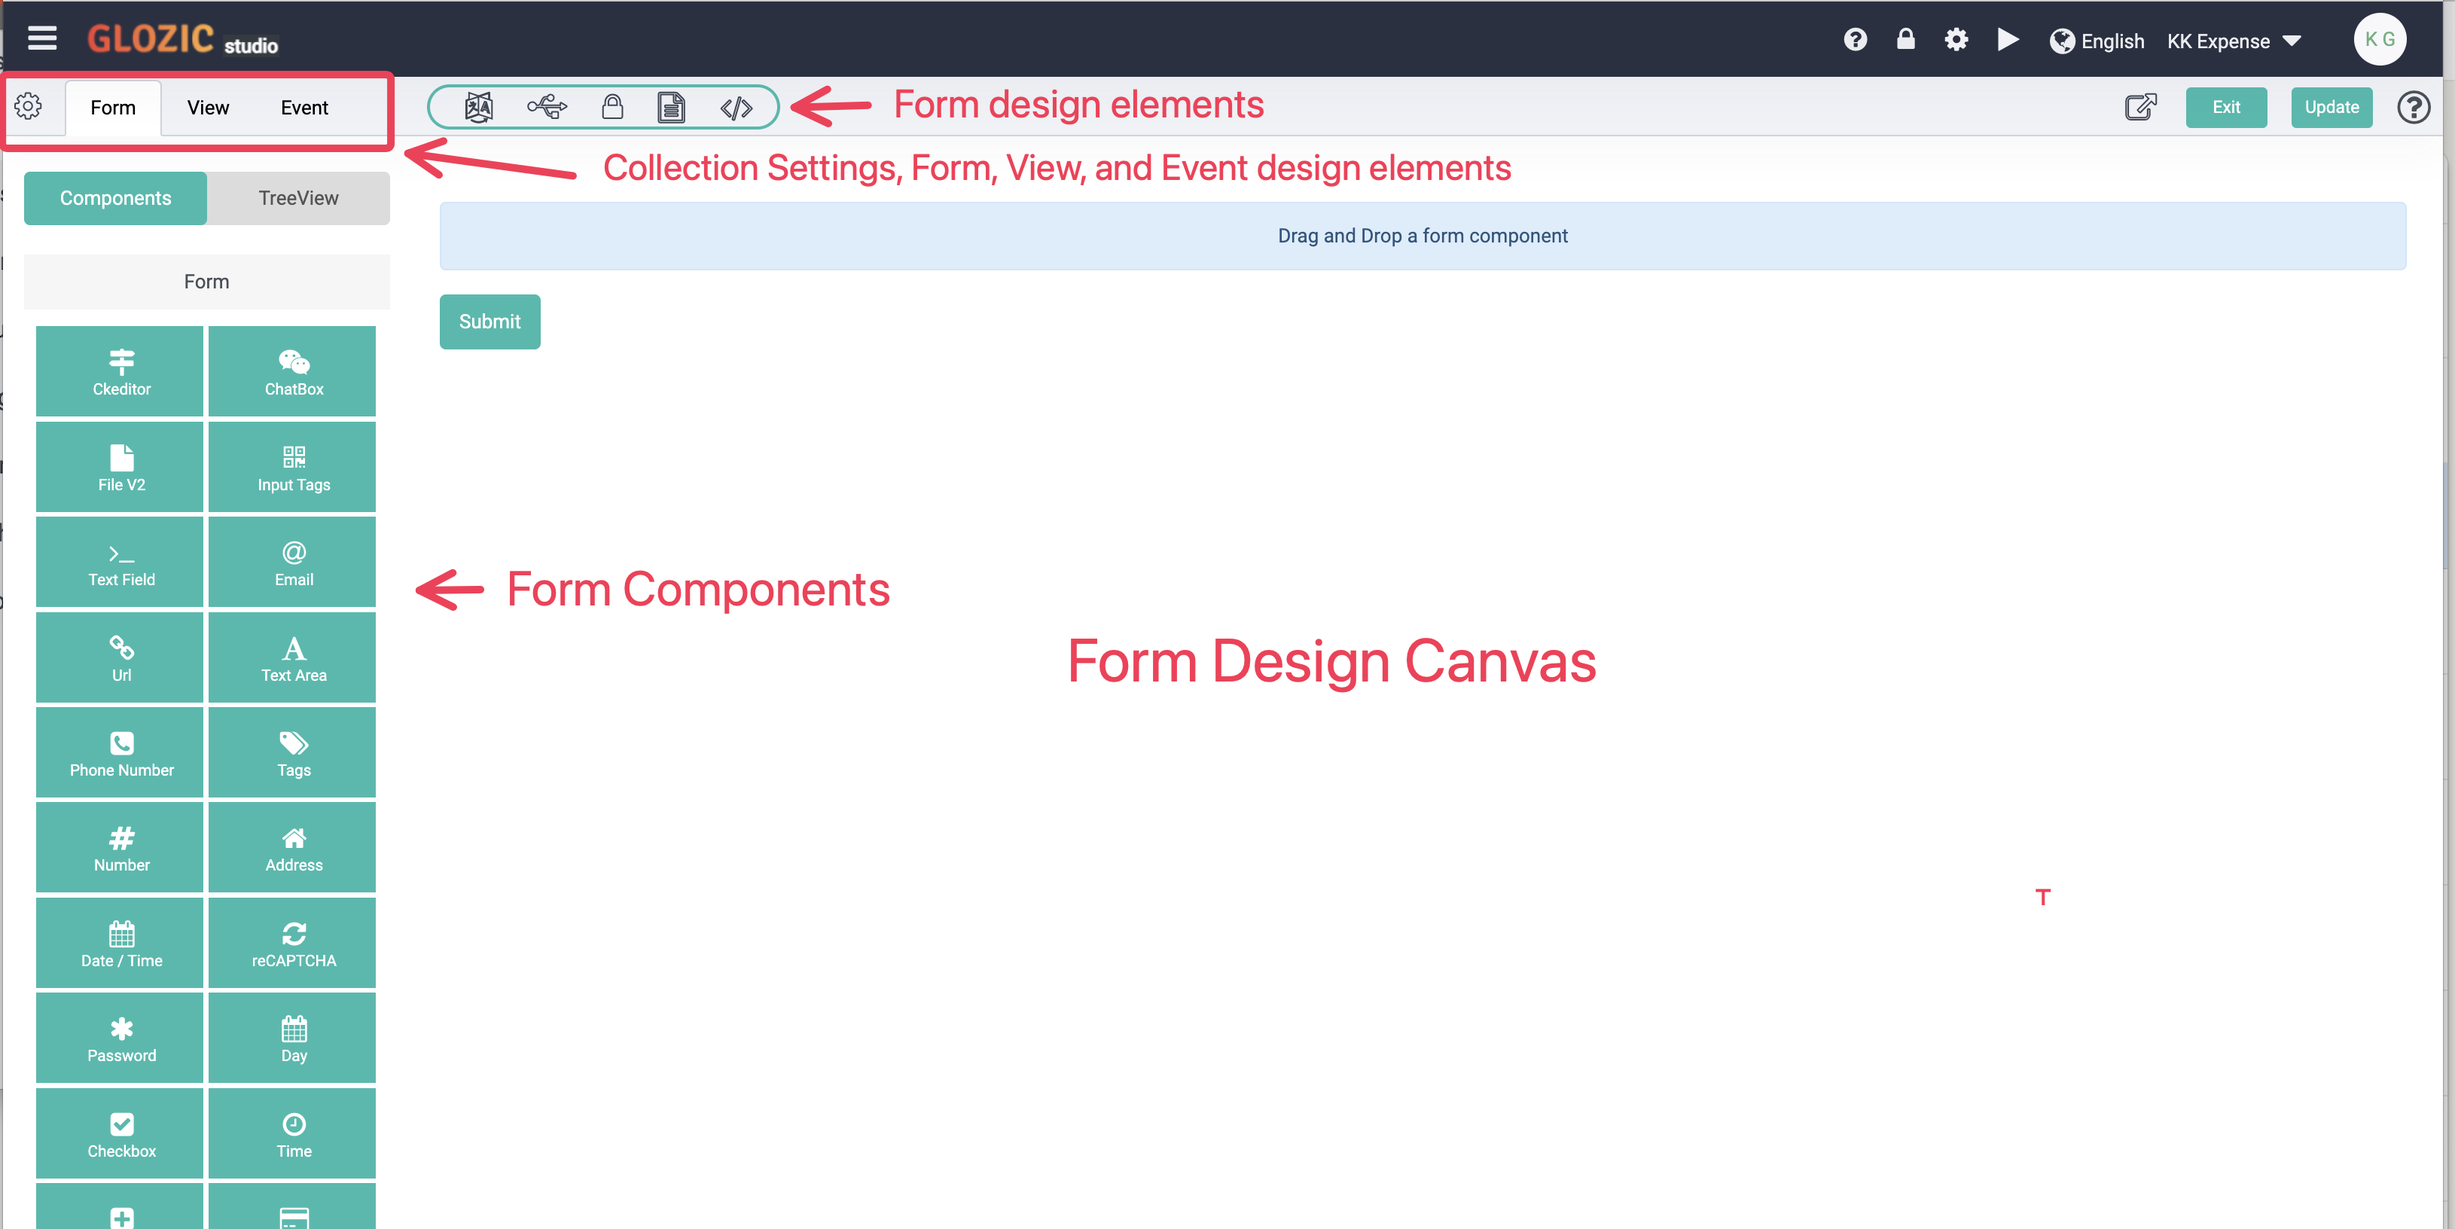
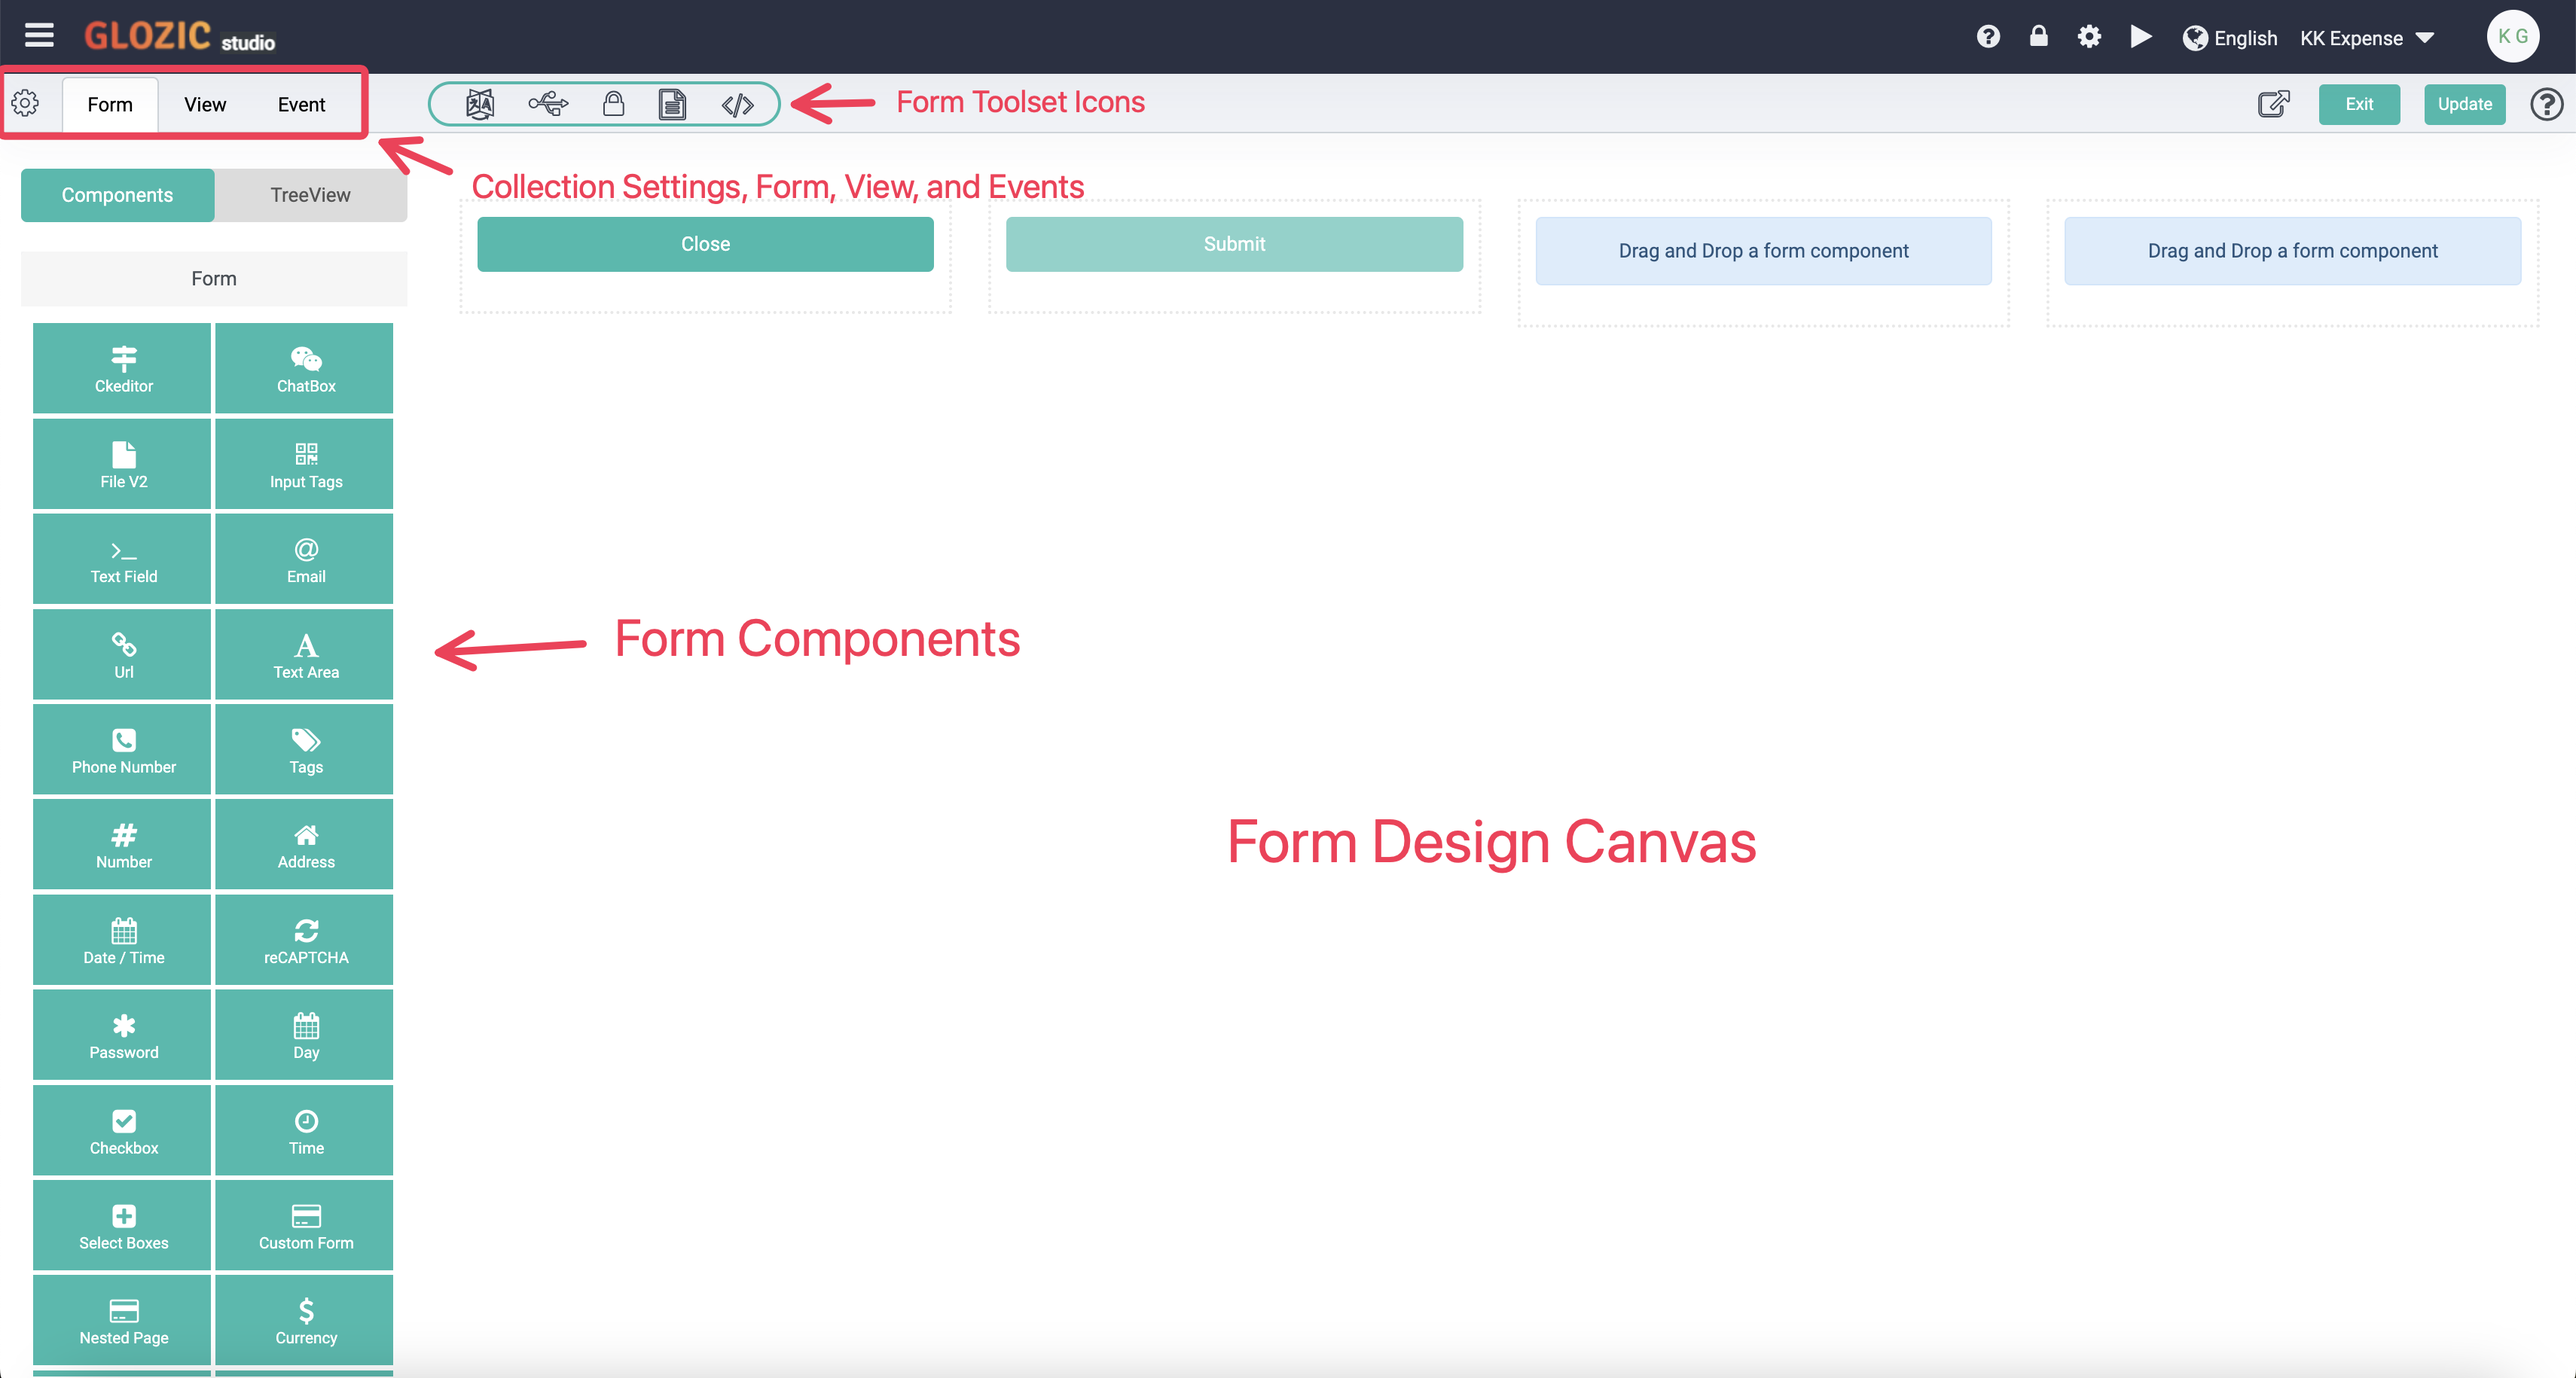
Updated model relation doc

Changed region(s): [[0.0, 0.0, 1.0, 1.0], [0.4337, 0.5, 0.6506, 0.5625], [0.4647, 0.5938, 0.6816, 0.625]]

diff --git a/docs/02 tutorial-advanced/03 collection-relations.md b/docs/02 tutorial-advanced/03 collection-relations.md
@@ -21,8 +21,79 @@ In this tutorial, we will explore how to create a separate collection for subdoc
 
 ## Create a Expense Items collection
 
+Create a new collection for **Expense Items** with below information
+
+| Field | Value |
+|--|--|
+| Title | Expense Items |
+| Name | expense-items |
+| Description | Expense Items |
+
+Creat the Expense Items form with the following form components
+
+- Edge Frame (Layout) [img](./img/3-model-expense-edgeframe.png)
+  - Typography ( Form `Expense Item`)
+  - 6-6 Columns (Layout - Columns)
+    - Expense ID (Form - Text Field `hidden` `disabled`)
+    - Category (Form - Select)
+    - Date (Form - Date/Time)
+    - Description (Form - Text Field)
+    - Amount (Form - Currency)
+  - 3-3-6 Columns (Layout - Columns)
+    - Close Button (Form - Custom Button)
+    - Submit Button (Form - Submit Button)
+
+The form should look similar to below screen capture
+![](./img/3-model-expense-form.png)
+
 ## Create Belongs-to relationship in Expense Items
 
+Select the **Connector** icon from the Form Toolset Icons, click **Add relation** to setup a new model relation. Refer to the below screen capture for proposed values:
+![](./img/3-model-relation-add.png)
+
+Update and Exit from the **Expense Items** collection design.
+
 ## Force saving Expense Items to Expense Items collection
+
+### Create Expense Items Endpoint
+Create an **Expense Items** endpoint for POSTing of Expense Items to the Expense Items collection. Refer to the table below for proposed values
+
+| Field | Value |
+|--|--|
+| Title | Expense Items |
+| Name | expense-items |
+| Endpoint URL | `https://<tenant>.glozic.dev/<app-name>/endpoint/expense-items` |
+| Method | POST |
+| Response Type | JSON |
+| Endpoint Scope | Protected |
+| Description | Create Expense Items |
+
+Add the following Variables to the endpoint
+| Variable | Type | Code |
+|--|--|--|
+| id | JS Expression | `return(_var.request.body.id)` |
+| expenseItems | JS Expression | `return(_var.request.body.expenseItems)` |
+
+Below screen capture shows an example of the Endpoint settings
+![](./img/3-endpoint-expense-items.png)
+
+Create the following flow
+![](./img/3-model-endpoint-flow.png)
+
+### Save Expense Items to the child collection
+Design the **Expense** collection, go to the **Event** tab to design the **Document added to collection** event by drag and drop a **Call Web Service** action onto the flow designer.
+![](./img/3-expense-event-design-1.png)
+
+Enter suggested values as shown in the below screen capture
+![](./img/3-expense-event-design-2.png)
+
+Since the **Expense-Items** endpoint is a protected endpoint, we will need to add the **Authorization** header with the following key-value pair as shown in the below screen capture
+![](./img/3-expense-event-design-3.png)
+
+:::tip Note
+See the following section on how to get an Access Token
+:::
+
+### Create Access Token for the restricted endpoint
 
 ## Display referenced document property in view

diff --git a/docs/02 tutorial-advanced/01 form-components-variables.md b/docs/02 tutorial-advanced/01 form-components-variables.md
@@ -63,7 +63,7 @@ By effectively using variables, you can create more flexible and interactive app
 
 ## Add a variable to the Expense form
 
-Open Form Design of **Expense** collection that was created in the Basic Tutorial. Click the "**Connector**" icon from the Form tool icon set, click the "**Add**" button next to the Variables to create/defin new variable, as highlighted in the below screen capture.
+Open Form Design of **Expense** collection that was created in the Basic Tutorial. Click the "**Connector**" icon (i.e. 2nd icon from left) of the Form Toolset Icons <img src="/img/Form-Toolset-Icons.png" height="17"/>, click the "**Add**" button next to the Variables to create/defin new variable, as highlighted in the below screen capture.
 ![](./img/collection-settings-create-6.png)
 
 Configure the variable according suggestion as shown in the below screen capture, and click **Submit** to save the variable.
